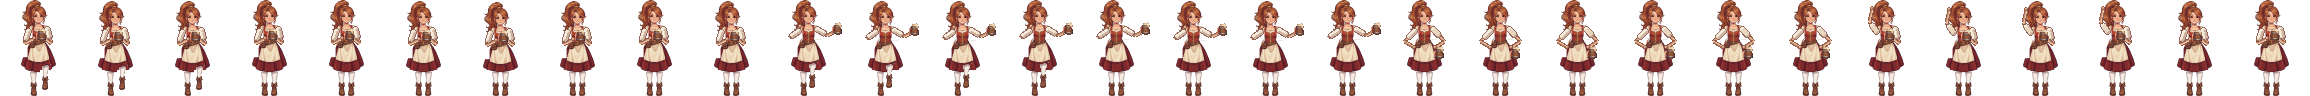
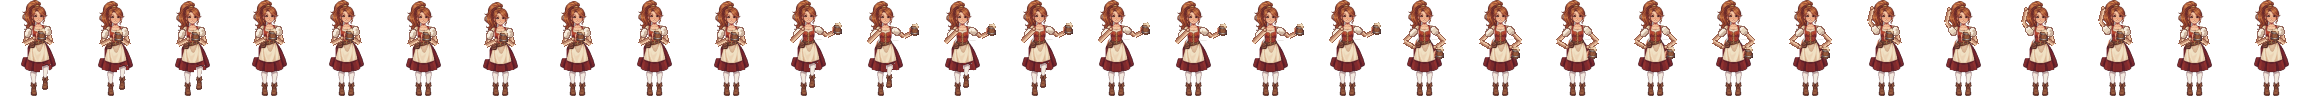
Rosa's dance: short puffed sleeves again, fuller forearms, the hand crosses to her chin, the kick keeps the foot on

diff --git a/assets/npcs/faces/rosa_dance.py b/assets/npcs/faces/rosa_dance.py
@@ -82,14 +82,14 @@ def forearm(canvas, x0, y0, x1, y1, width=3.0, hand=True):
 import math
 
 
-def limb(canvas, x0, y0, x1, y1, width=3.0):
+def limb(canvas, x0, y0, x1, y1, width=3.9):
     forearm(canvas, x0, y0, x1, y1, width, hand=False)
 
 
 PUFF = dict(L=(148, 104, 92), z=(206, 180, 160), s=(232, 214, 190), S=(246, 236, 222))
 
 
-def puff(canvas, sx, sy, ex, ey, length=7.0, r=3.4):
+def puff(canvas, sx, sy, ex, ey, length=3.0, r=3.8):
     """Her puffed sleeve, drawn: a rounded capsule from the shoulder along the upper arm, outlined, lit from the upper left."""
     d = math.hypot(ex - sx, ey - sy)
     ux, uy = (ex - sx) / d, (ey - sy) / d
@@ -125,12 +125,12 @@ SHOULDER_L, SHOULDER_R = (28, 31), (47, 29)
 POSES = {
     'rest':  None,
     'chest': dict(L=((24, 43), (34, 38)), R=((51, 43), (43, 37)), mug=(36, 27)),
-    'cheek': dict(L=((19, 37), (30, 26)), R=((57, 35), (65, 31)), mug=(62, 21)),
+    'cheek': dict(L=((21, 41), (33, 29)), R=((57, 35), (65, 31)), mug=(62, 21)),
     'hips':  dict(L=((18, 41), (28, 47)), R=((58, 41), (49, 47)), mug=(48, 45)),
     'up':    dict(L=((21, 21), (24, 8)), R=((51, 43), (43, 37)), mug=(36, 27)),
 }
 SLEEVE_ATTACH_L, SLEEVE_ATTACH_R = (6, 1), (4, 3)
-SLEEVE_LEN = 9
+SLEEVE_LEN = 6
 
 # 30 frames at 15 fps: pose, bounce (px down), sway (px right), legs ('stand', 'kick' right foot back up, 'knee' right knee up)
 FRAMES = (
@@ -169,8 +169,9 @@ def frame(body, sleeve_l, sleeve_r, mug, spec):
         # upper arm skin shows from the end of the sleeve to the elbow
         ux, uy = sx + (ex - sx) * SLEEVE_LEN / d, sy + (ey - sy) * SLEEVE_LEN / d
         limb(c, ux, uy, ex, ey)
-        forearm(c, ex, ey, hx, hy, 3.0)
         puff(c, sx, sy, ex, ey)
+        # the forearm goes on top, so a hand brought back to the face or chest crosses in front of the sleeve
+        forearm(c, ex, ey, hx, hy, 3.9)
     mx, my = P['mug']
     paste(c, mug, mx + sway, my + bob)
     return c
